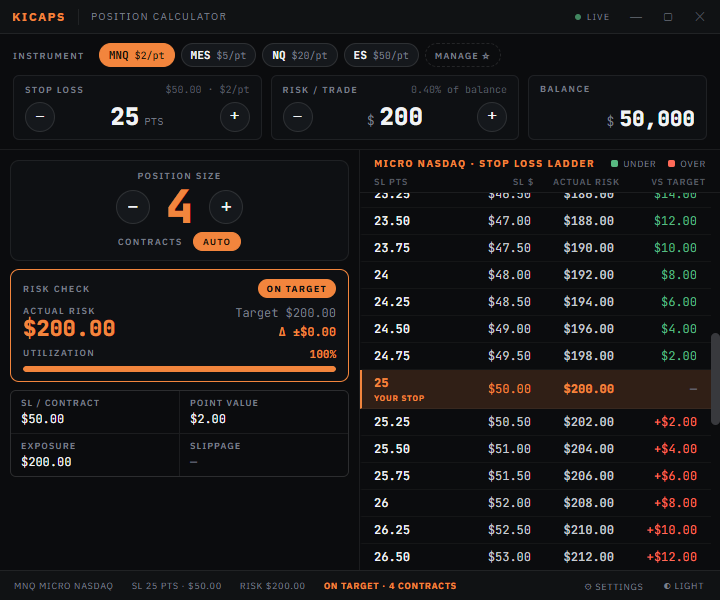
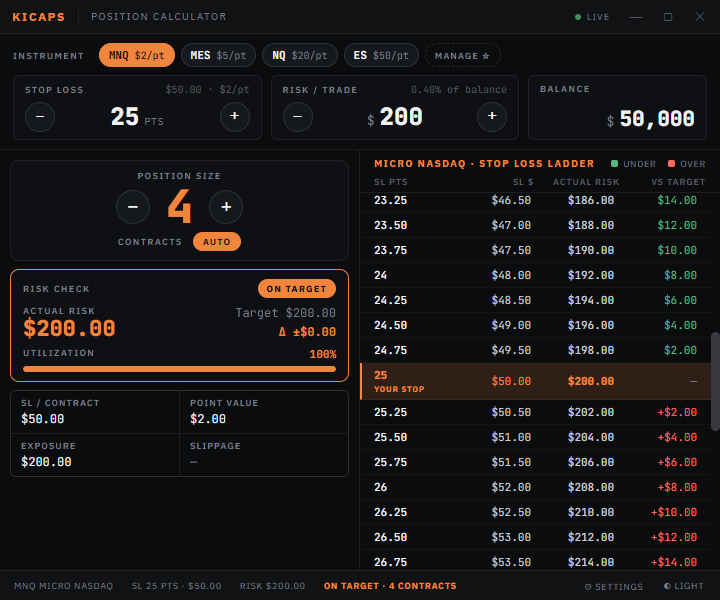
polish: shrink ladder row font to 11px; refresh screenshot
Only the Stop Loss Ladder content was reduced (SL Pts / SL $ / Actual Risk /
vs Target now 11px) per feedback; the rest of the compact layout is unchanged.

diff --git a/KiCaps.html b/KiCaps.html
@@ -180,10 +180,10 @@ body.light{ background:#e8e2d8; }
 .lrow.cur   { background:var(--accent-tint); border-left-color:var(--accent); }
 .lrow.flash { animation:rowFlash .35s ease; }
 .lcol-pts { display:flex; flex-direction:column; gap:2px; }
-.pts      { font-family:var(--num); font-size:12px; font-weight:500; color:var(--text); font-variant-numeric:tabular-nums; }
+.pts      { font-family:var(--num); font-size:11px; font-weight:500; color:var(--text); font-variant-numeric:tabular-nums; }
 .lrow.cur .pts { color:var(--accent); font-weight:800; }
 .your-stop{ font-family:var(--ui); font-size:8px; font-weight:700; letter-spacing:.1em; text-transform:uppercase; color:var(--accent); }
-.lval     { font-family:var(--num); font-size:12px; text-align:right; color:var(--row-normal); font-variant-numeric:tabular-nums; }
+.lval     { font-family:var(--num); font-size:11px; text-align:right; color:var(--row-normal); font-variant-numeric:tabular-nums; }
 .lrow.cur .lval:not(.slip) { color:var(--accent); }
 .lval.risk { font-weight:500; }
 .lrow.cur .lval.risk { font-weight:800; }
